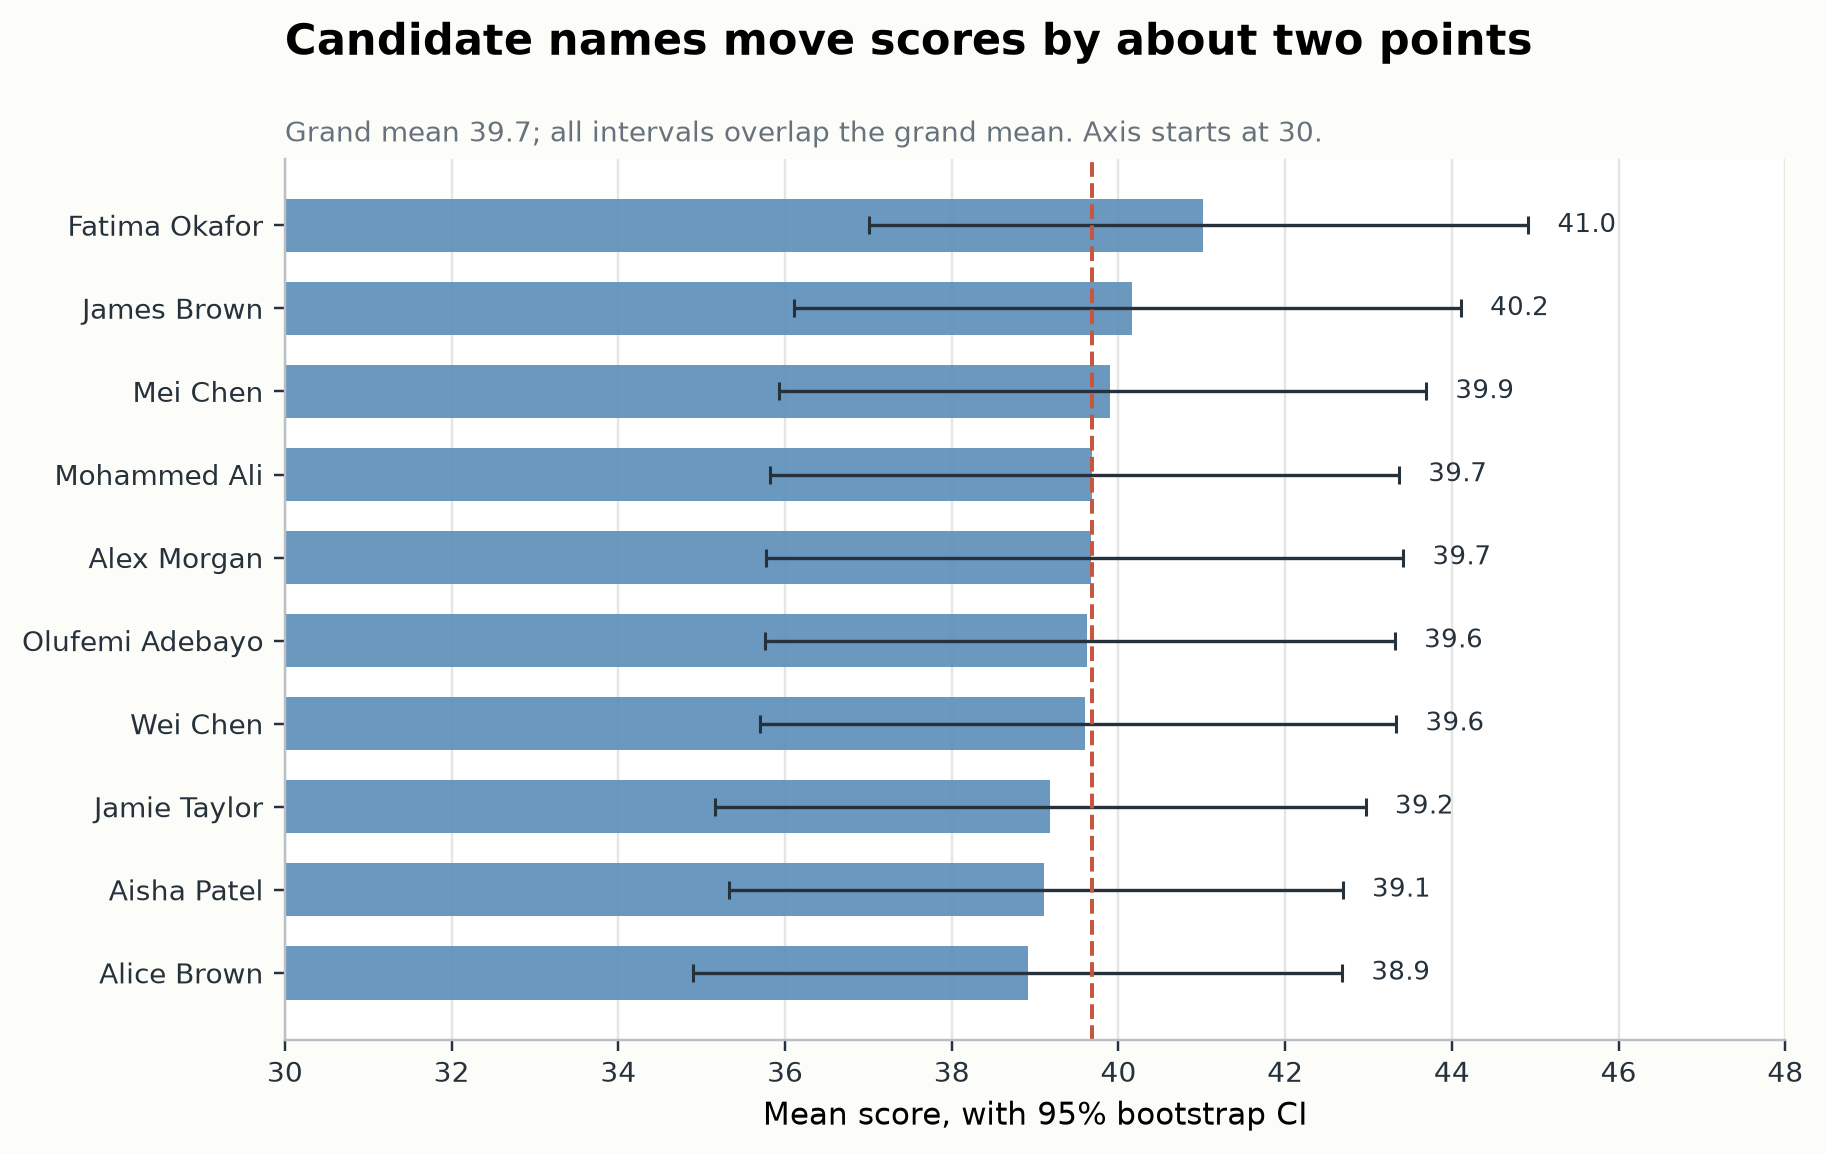
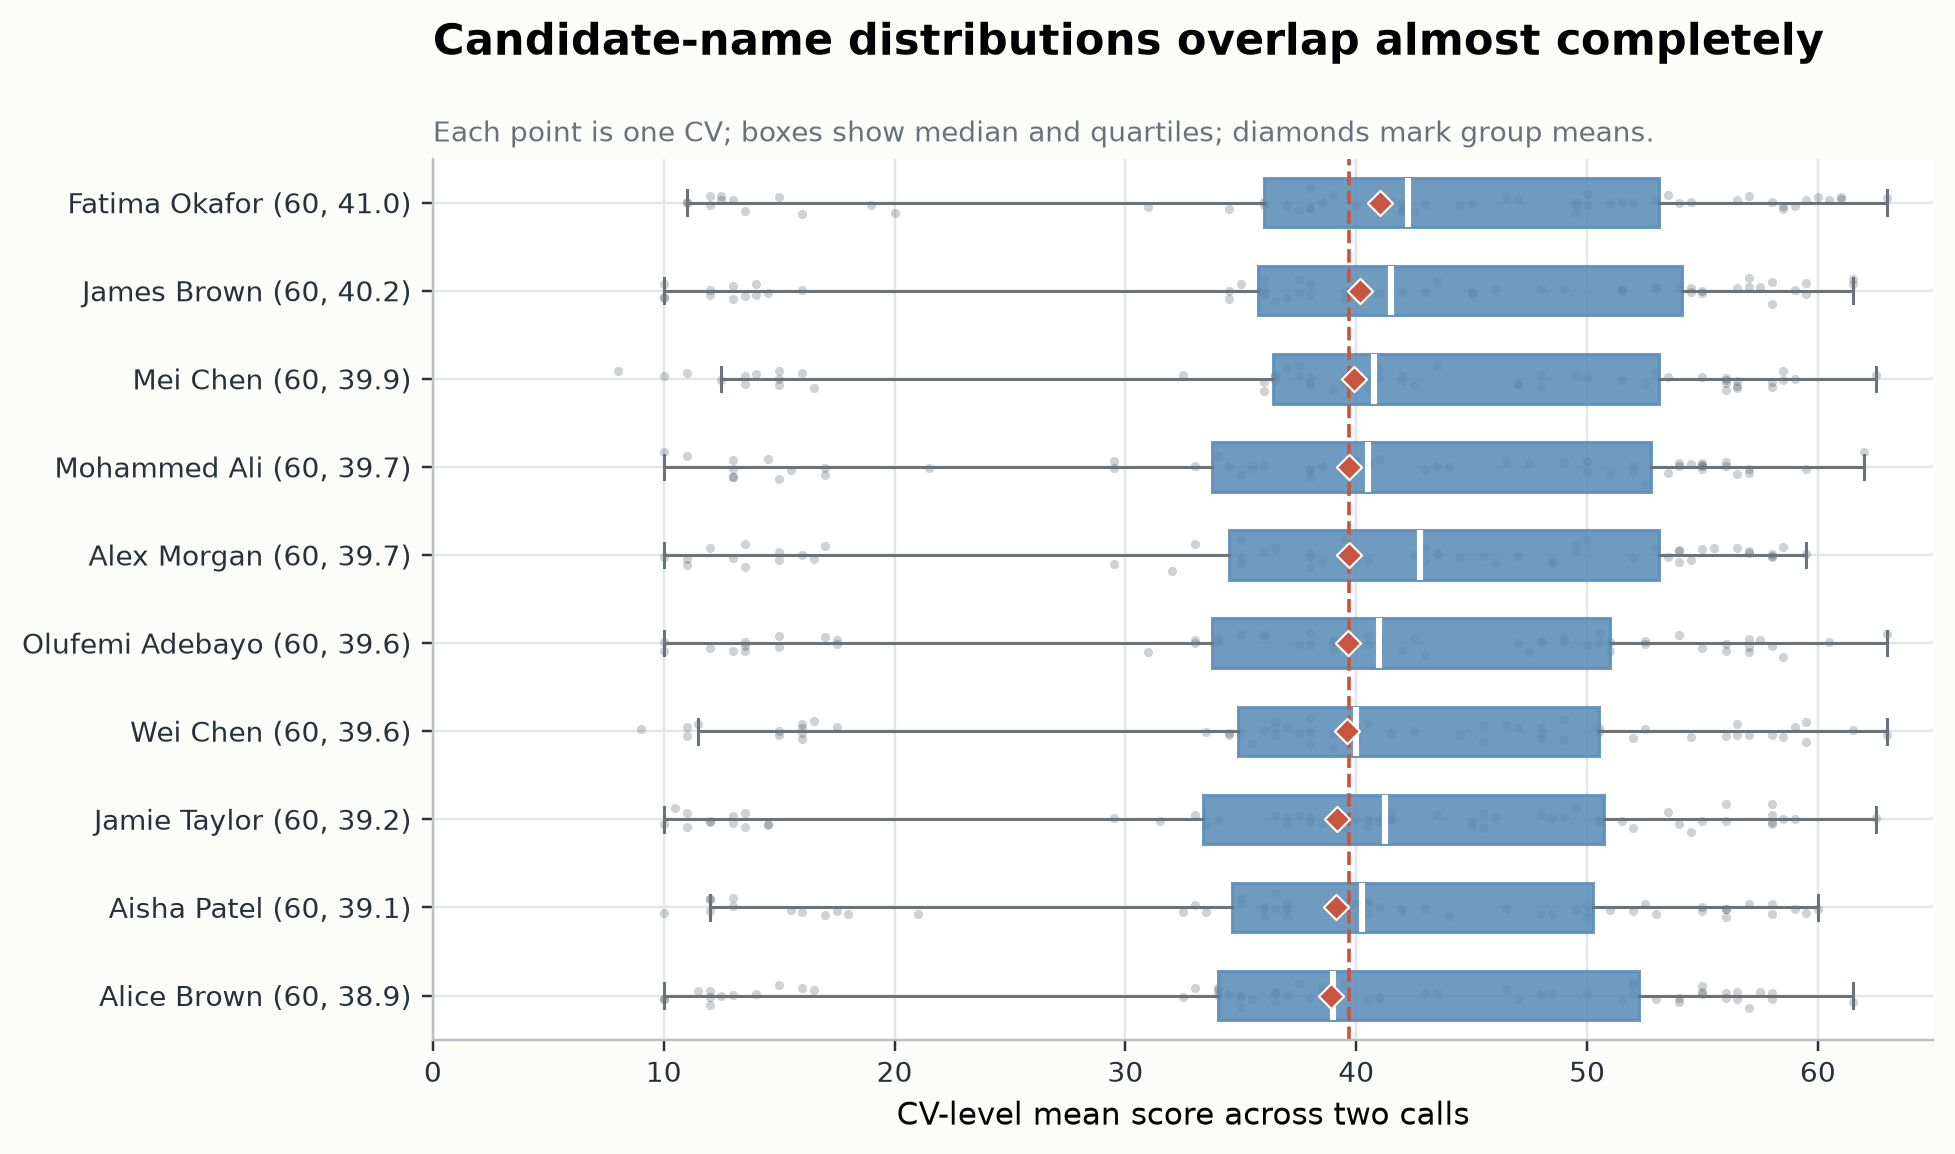
Show full distributions in cv-screening charts

diff --git a/examples/cv-screening-600/analysis/gender_proxy.py b/examples/cv-screening-600/analysis/gender_proxy.py
@@ -1,0 +1,110 @@
+"""Build an exploratory perceived-gender chart from the public CV scores."""
+
+from __future__ import annotations
+
+from pathlib import Path
+
+import matplotlib
+
+matplotlib.use("Agg")
+import matplotlib.pyplot as plt
+import numpy as np
+import pandas as pd
+
+ROOT = Path(__file__).resolve().parents[1]
+DATA = ROOT / "data" / "cv_scores.csv"
+OUT = ROOT / "charts" / "10_gender_proxy.png"
+GROUPS = {
+    "Aisha Patel": "Female",
+    "Alice Brown": "Female",
+    "Fatima Okafor": "Female",
+    "Mei Chen": "Female",
+    "James Brown": "Male",
+    "Mohammed Ali": "Male",
+    "Olufemi Adebayo": "Male",
+    "Alex Morgan": "Ambiguous",
+    "Jamie Taylor": "Ambiguous",
+    "Wei Chen": "Ambiguous",
+}
+ORDER = ["Female", "Male", "Ambiguous"]
+COLORS = {"Female": "#2f6f9f", "Male": "#1d4e89", "Ambiguous": "#9aa4aa"}
+INK = "#25313b"
+MUTED = "#66727c"
+GRID = "#e4e6e3"
+ACCENT = "#c8553d"
+RNG = np.random.default_rng(20261021)
+
+
+def main() -> None:
+    scores = pd.read_csv(DATA)
+    scores["gender_proxy"] = scores["name"].map(GROUPS)
+    data = [scores.loc[scores["gender_proxy"] == group, "score"].to_numpy() for group in ORDER]
+    rows = []
+    for group, values in zip(ORDER, data):
+        rows.append((group, len(values), float(values.mean()), float(values.std(ddof=1))))
+    table = pd.DataFrame(rows, columns=["group", "n", "mean", "sd"])
+    overall = float(scores["score"].mean())
+
+    plt.rcParams.update(
+        {
+            "font.family": "DejaVu Sans",
+            "font.size": 10,
+            "axes.titlesize": 14,
+            "axes.titleweight": "bold",
+            "axes.labelsize": 10,
+            "axes.edgecolor": "#b9bfc2",
+            "axes.linewidth": 0.8,
+            "figure.facecolor": "#fcfcf9",
+            "axes.facecolor": "#ffffff",
+            "savefig.facecolor": "#fcfcf9",
+        }
+    )
+    fig, ax = plt.subplots(figsize=(7.4, 4.8))
+    positions = np.arange(len(table))
+    box = ax.boxplot(
+        data,
+        positions=positions,
+        orientation="horizontal",
+        widths=0.56,
+        patch_artist=True,
+        showfliers=False,
+        medianprops={"color": "white", "linewidth": 2},
+        whiskerprops={"color": "#6a737a"},
+        capprops={"color": "#6a737a"},
+    )
+    for patch, group in zip(box["boxes"], table["group"]):
+        patch.set_facecolor(COLORS[group])
+        patch.set_edgecolor(COLORS[group])
+        patch.set_alpha(0.88)
+    for position, values in zip(positions, data):
+        jitter = RNG.normal(0, 0.065, len(values))
+        ax.scatter(values, np.full(len(values), position) + jitter, s=9, color=INK, alpha=0.22, linewidths=0)
+        ax.scatter(values.mean(), position, marker="D", s=34, color=ACCENT, zorder=5, edgecolor="white", linewidth=0.7)
+    ax.axvline(overall, color=ACCENT, linewidth=1.2, linestyle="--")
+    ax.set_yticks(positions, [f"{row.group} ({row.n}, {row.mean:.1f})" for row in table.itertuples()])
+    ax.set_xlim(0, 65)
+    ax.set_xlabel("CV-level mean score across two calls")
+    ax.set_title("Perceived gender from name shows no detectable difference", loc="left", pad=34)
+    ax.text(
+        0,
+        1.012,
+        "Each point is one CV; boxes show median and quartiles; diamonds mark group means. Ambiguous names are not forced into a binary.",
+        transform=ax.transAxes,
+        va="bottom",
+        color=MUTED,
+        fontsize=9,
+    )
+    ax.spines[["top", "right"]].set_visible(False)
+    ax.spines[["left", "bottom"]].set_color("#b9bfc2")
+    ax.tick_params(colors=INK, labelsize=9)
+    ax.grid(axis="x", color=GRID, linewidth=0.8)
+    ax.grid(axis="y", visible=False)
+    ax.set_axisbelow(True)
+    fig.savefig(OUT, dpi=220, bbox_inches="tight", facecolor=fig.get_facecolor())
+    plt.close(fig)
+    print(table.round(2).to_string(index=False))
+    print(f"wrote {OUT}")
+
+
+if __name__ == "__main__":
+    main()

diff --git a/examples/cv-screening-600/README.md b/examples/cv-screening-600/README.md
@@ -32,6 +32,8 @@ This is a descriptive factorial study of one model and one job description, not 
 
 ## Dimension tables
 
+Tables report mean, SD, and a 95% bootstrap interval for each group. The charts show the full CV-level distribution instead: every point is one CV, with boxes for the median and quartiles.
+
 ### Candidate name
 
 | Level | CVs | Mean | SD | 95% CI | Delta vs overall |
@@ -47,9 +49,9 @@ This is a descriptive factorial study of one model and one job description, not 
 | Aisha Patel | 60 | 39.11 | 14.57 | 35.33 to 42.69 | -0.58 |
 | Alice Brown | 60 | 38.92 | 15.47 | 34.90 to 42.68 | -0.77 |
 
-![Candidate-name means with 95% bootstrap intervals](charts/03_candidate_names.png)
+![Candidate-name boxplots with every CV](charts/03_candidate_names.png)
 
-*Figure 2. Changing the candidate name moves the group mean by about two points. Every interval overlaps the grand mean. The x-axis starts at 30 to make the differences visible.*
+*Figure 2. Candidate-name distributions overlap almost completely. Each point is one CV; boxes show the median and quartiles; diamonds mark group means.*
 
 ### University
 
@@ -60,9 +62,9 @@ This is a descriptive factorial study of one model and one job description, not 
 | University of South Wales | 150 | 39.19 | 15.25 | 36.73 to 41.60 | -0.50 |
 | University of Bristol | 150 | 39.13 | 15.26 | 36.67 to 41.54 | -0.55 |
 
-![University means with 95% bootstrap intervals](charts/04_university.png)
+![University boxplots with every CV](charts/04_university.png)
 
-*Figure 3. Oxford is nominally higher, but the Oxford-versus-other-three interval includes zero. The x-axis starts at 30.*
+*Figure 3. Oxford is nominally higher, but its distribution overlaps the other universities almost entirely. Each point is one CV; diamonds mark group means.*
 
 ### Degree subject
 
@@ -87,9 +89,9 @@ This is a descriptive factorial study of one model and one job description, not 
 
 Classification is nested inside subject in this design. Do not read the 2:1 row as a class effect independent of subject.
 
-![Mean score by degree classification](charts/06_degree_classification.png)
+![Degree-classification boxplots with every CV](charts/06_degree_classification.png)
 
-*Figure 5. The apparent classification gap is a subject-and-class contrast: every Business Studies CV is 2:1, and every other CV is First-Class.*
+*Figure 5. The apparent classification gap is a subject-and-class contrast: every Business Studies CV is 2:1, and every other CV is First-Class. Each point is one CV.*
 
 ### A-level profile
 
@@ -99,9 +101,25 @@ Classification is nested inside subject in this design. Do not read the 2:1 row 
 | B | 200 | 39.69 | 15.25 | 37.56 to 41.77 | +0.00 |
 | C | 200 | 38.19 | 15.52 | 36.03 to 40.32 | -1.50 |
 
-![A-level profile means with 95% bootstrap intervals](charts/05_a_level_profile.png)
+![A-level-profile boxplots with every CV](charts/05_a_level_profile.png)
 
-*Figure 6. Profile A is about three points above C. The A–B and B–C differences are not resolved by this sample. The x-axis starts at 30.*
+*Figure 6. Profile A is about three points above C, but the distributions overlap heavily. Each point is one CV; boxes show the median and quartiles; diamonds mark means.*
+
+### Exploratory: perceived gender from name
+
+The original design has no gender attribute. This chart is a **name-perception proxy**, not self-identified gender, and it was not randomized. Names are grouped as follows:
+
+| Group | Names |
+|---|---|
+| Female | Aisha Patel, Alice Brown, Fatima Okafor, Mei Chen |
+| Male | James Brown, Mohammed Ali, Olufemi Adebayo |
+| Ambiguous / unisex | Alex Morgan, Jamie Taylor, Wei Chen |
+
+Assignments are judgment calls; the table shows every mapping. Ambiguous names are kept separate rather than forced into a binary. Female mean **39.73** (n=240), male **39.82** (n=180), ambiguous **39.48** (n=180); female minus male is **−0.09** (95% CI **−3.08 to +2.89**). Assigning the ambiguous names to either binary group changes the female–male difference by less than 0.2 points (all p>0.9). This is consistent with the tiny name main effect (0.14% of variance).
+
+![Perceived-gender boxplots with every CV](charts/10_gender_proxy.png)
+
+*Figure 7. Perceived gender from name shows no detectable score difference. Each point is one CV; boxes show the median and quartiles; ambiguous/unisex names are not forced into a binary.*
 
 ## Variance decomposition
 
@@ -119,7 +137,7 @@ The two-way model found no subject × profile interaction (p=0.19), no universit
 
 ![Share of variance explained by each factor](charts/07_variance_decomposition.png)
 
-*Figure 7. Subject explains 95.25% of the variance in CV-level means. The log scale is necessary because the remaining factors are all below 1%.*
+*Figure 8. Subject explains 95.25% of the variance in CV-level means. The log scale is necessary because the remaining factors are all below 1%.*
 
 ## Repeatability
 
@@ -140,7 +158,7 @@ Temperature 0 did not make the hosted endpoint deterministic. The overall correl
 
 ![Call agreement and Bland–Altman limits](charts/08_repeatability.png)
 
-*Figure 8. The left panel looks reassuring until the subject clusters are separated; within subject, the two calls are nearly uncorrelated (r=0.114). The right panel shows a 5.89-point SD of paired differences and wide limits of agreement.*
+*Figure 9. The left panel looks reassuring until the subject clusters are separated; within subject, the two calls are nearly uncorrelated (r=0.114). The right panel shows a 5.89-point SD of paired differences and wide limits of agreement.*
 
 ## Interpretation
 
@@ -150,7 +168,7 @@ Scores also collapse onto a small set of integers, consistent with a coarse rubr
 
 ![Mean score by degree subject and A-level profile](charts/09_subject_profile_heatmap.png)
 
-*Figure 9. The A-level profile gradient is a small parallel shift inside every subject band; there is no evidence that the profile effect reverses by subject.*
+*Figure 10. The A-level profile gradient is a small parallel shift inside every subject band; there is no evidence that the profile effect reverses by subject.*
 
 The weak university and name results are useful negative findings: changing a candidate's name or moving the same profile between four UK universities did not produce a reliable score shift. The A-level gradient is monotonic but small; the lowest profile costs roughly three points against the highest.
 
@@ -170,13 +188,15 @@ The classification finding should not be over-read. Business Studies is simultan
 
 - `charts/01_score_distribution.png` — overall distribution, stacked by degree subject.
 - `charts/02_subject_scores.png` — subject boxplots, individual CVs, and means.
-- `charts/03_candidate_names.png` — name means with 95% bootstrap intervals.
-- `charts/04_university.png` — university means and the Oxford contrast.
-- `charts/05_a_level_profile.png` — A/B/C profile means.
-- `charts/06_degree_classification.png` — First versus 2:1, with the confounding warning.
+- `charts/03_candidate_names.png` — name boxplots with every CV.
+- `charts/04_university.png` — university boxplots with every CV.
+- `charts/05_a_level_profile.png` — A/B/C profile boxplots with every CV.
+- `charts/06_degree_classification.png` — First versus 2:1 boxplots, with the confounding warning.
 - `charts/07_variance_decomposition.png` — share of variance by factor.
 - `charts/08_repeatability.png` — call agreement and Bland–Altman limits.
 - `charts/09_subject_profile_heatmap.png` — subject × profile means.
+- `charts/10_gender_proxy.png` — exploratory perceived-gender boxplots with every CV.
+- `analysis/gender_proxy.py` — reproducible name-grouping and chart script.
 - `data/cv_scores.csv` — one row per CV with the mean score and design attributes.
 - `data/dimension_summary.csv` — tidy means, SDs, bootstrap intervals, and deltas for every dimension level.
 
